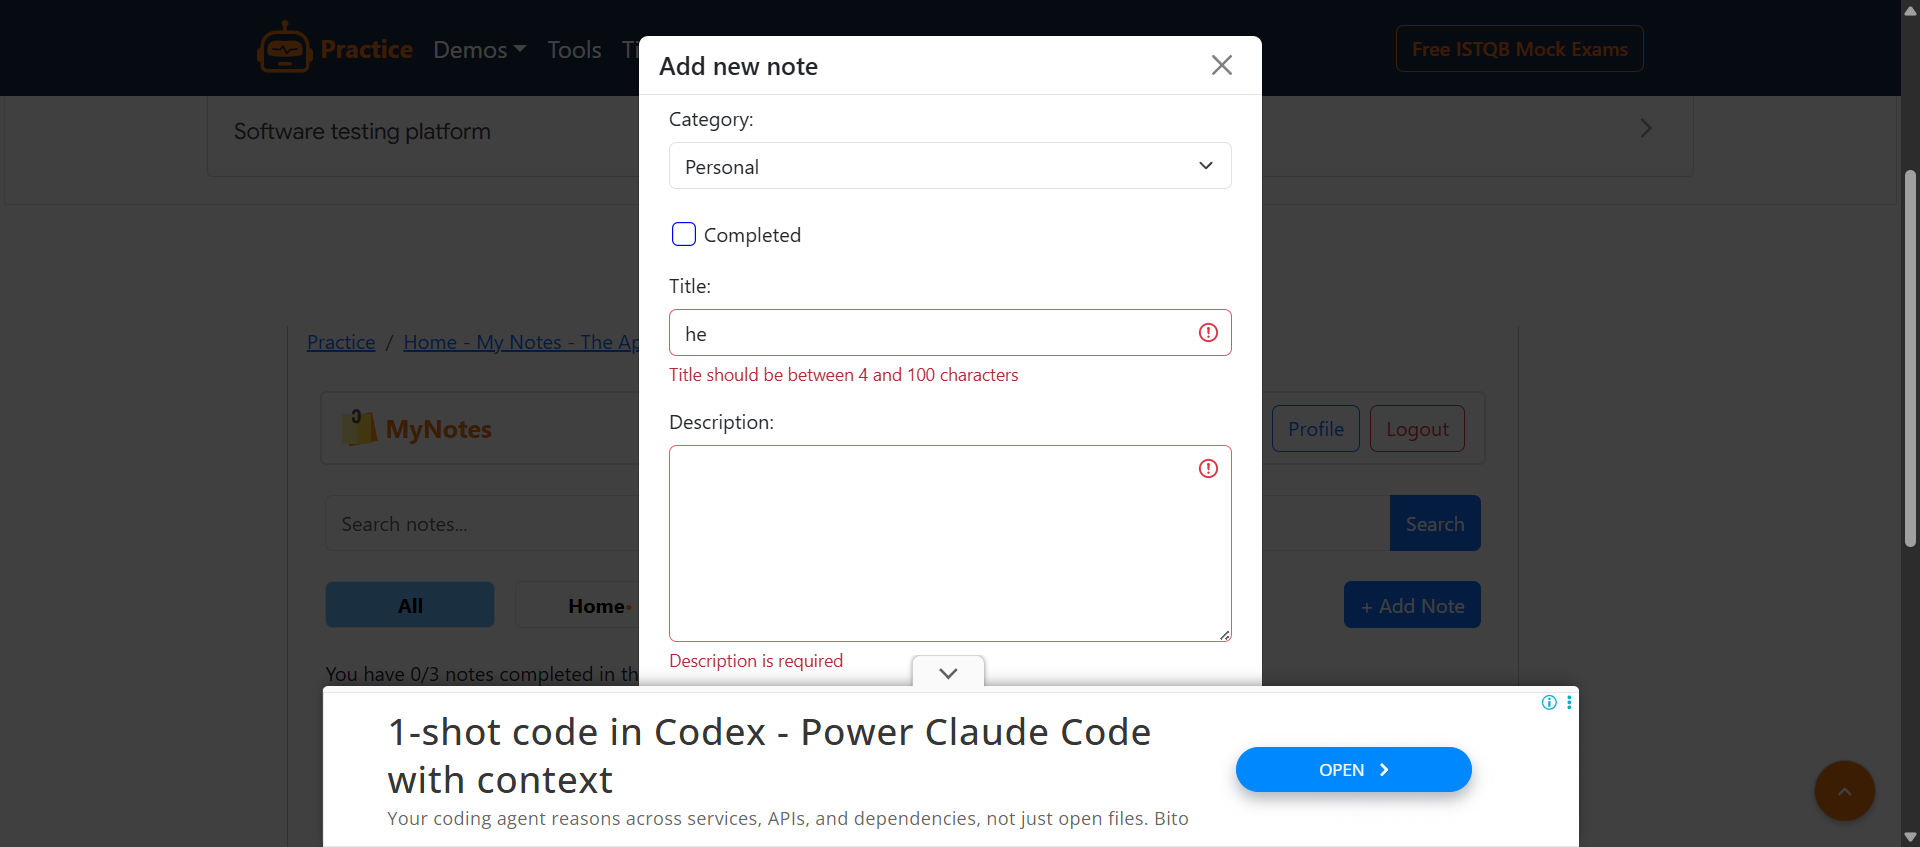
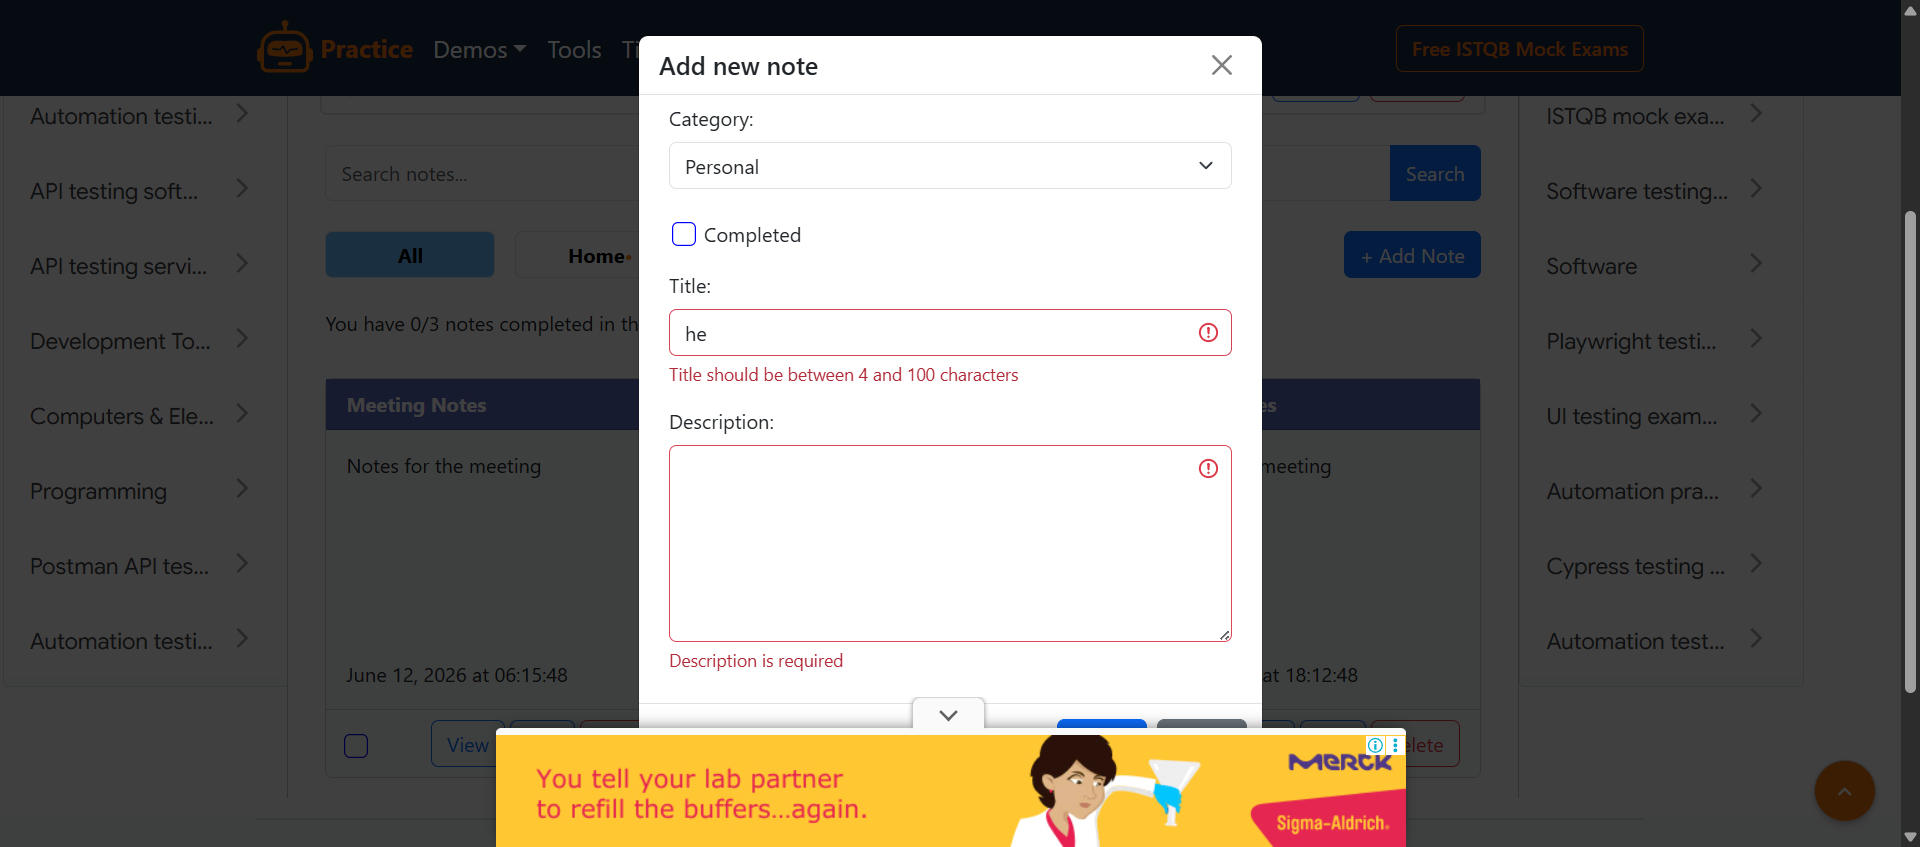
delete_and_validate file updated

diff --git a/tests/integration/test_delete_and_validate.py b/tests/integration/test_delete_and_validate.py
@@ -1,38 +1,60 @@
 from pages.api.notes import NotesAPI
 from pages.ui.base_page_ui import BasePage
 from pages.ui.login import LoginPage
+from pages.ui.create_note import CreateNote
+from time import sleep
 
 def test_delete_and_validate(setup_and_teardown, headers):
 
     driver = setup_and_teardown
-
     notes_api = NotesAPI()
 
+    # Get all notes and store the note to be deleted
     response = notes_api.get_all_notes(headers)
+    assert response.status_code == 200, f"Failed to fetch notes. Status code: {response.status_code}"
 
     response_json = response.json()
     notes = response_json["data"]
-    note_id = notes[0]["id"]
+    assert len(notes) > 0, "No notes available to delete"
 
-    notes_api.delete_note(note_id, headers=headers)
+    # Store the note details to be deleted (both title and description to handle duplicates)
+    note_to_delete = notes[0]
+    note_id = note_to_delete["id"]
+    note_title = note_to_delete["title"]
+    note_description = note_to_delete.get("description", "")
 
-    # rem_notes = notes_api.get_all_notes(headers)
-    # rem_notes_json = rem_notes.json()["data"]
-    #
-    # for note in rem_notes_json:
-    #     if note["id"] == note_id:
-    #         assert False, f"Note with id {note_id} was not deleted"
+    # Count occurrences of this (title, description) pair in API before deletion
+    api_count_before = sum(1 for n in notes if n.get("title") == note_title and n.get("description", "") == note_description)
 
-    # Login for refresh
+    # Login to access UI
     lp = LoginPage(driver)
     lp.login()
+    sleep(2)
 
-    # Refresh UI
+    # Count occurrences of (title, description) pair in UI before deletion
+    cn = CreateNote(driver)
+    ui_count_before = cn.count_note_by_title_desc(note_title, note_description)
+
+    # Delete the note via API
+    delete_response = notes_api.delete_note(note_id, headers=headers)
+    assert delete_response.status_code in (200, 204), f"Failed to delete note. Status code: {delete_response.status_code}"
+
+    # Verify deletion via API - count should decrease by 1
+    remaining_notes = notes_api.get_all_notes(headers)
+    remaining_notes_json = remaining_notes.json()["data"]
+    api_count_after = sum(1 for n in remaining_notes_json if n.get("title") == note_title and n.get("description", "") == note_description)
+
+    assert api_count_after == api_count_before - 1, \
+        f"API: Note (title='{note_title}', desc='{note_description}') count did not decrease by 1. Before: {api_count_before}, After: {api_count_after}"
+
+    # Refresh UI to get latest data
     bp = BasePage(driver)
     bp.refresh()
+    sleep(2)
 
-    # Checking whether note get deleted or not
+    # Verify deletion in UI - count should decrease by 1
+    ui_count_after = cn.count_note_by_title_desc(note_title, note_description)
 
-
-    assert response.status_code in (200, 204), f"Note with id {note_id} was not deleted"
+    assert ui_count_after == ui_count_before - 1, \
+        f"UI: Note (title='{note_title}', desc='{note_description}') count did not decrease by 1. Before: {ui_count_before}, After: {ui_count_after}"
 

diff --git a/pages/ui/create_note.py b/pages/ui/create_note.py
@@ -1,4 +1,6 @@
 from selenium.webdriver.common.by import By
+from selenium.webdriver.support import expected_conditions as EC
+from selenium.common.exceptions import TimeoutException, NoSuchElementException
 from pages.ui.base_page_ui import BasePage
 
 class CreateNote(BasePage):
@@ -34,3 +36,21 @@ class CreateNote(BasePage):
 
     def valid_note_title(self):
         return self.validate_note(self.valid_note_title_text)
+
+    def count_note_by_title_desc(self, title, description):
+        """Count occurrences of (title, description) pair in the UI"""
+        try:
+            title_elements = self.wait.until(EC.visibility_of_all_elements_located(self.valid_note_title_text))
+            desc_elements = self.wait.until(EC.visibility_of_all_elements_located(self.valid_note_desc))
+            
+            titles = [e.text for e in title_elements]
+            descs = [e.text for e in desc_elements]
+            
+            count = 0
+            for i in range(min(len(titles), len(descs))):
+                if titles[i] == title and descs[i] == description:
+                    count += 1
+            return count
+        except (TimeoutException, NoSuchElementException):
+            return 0
+